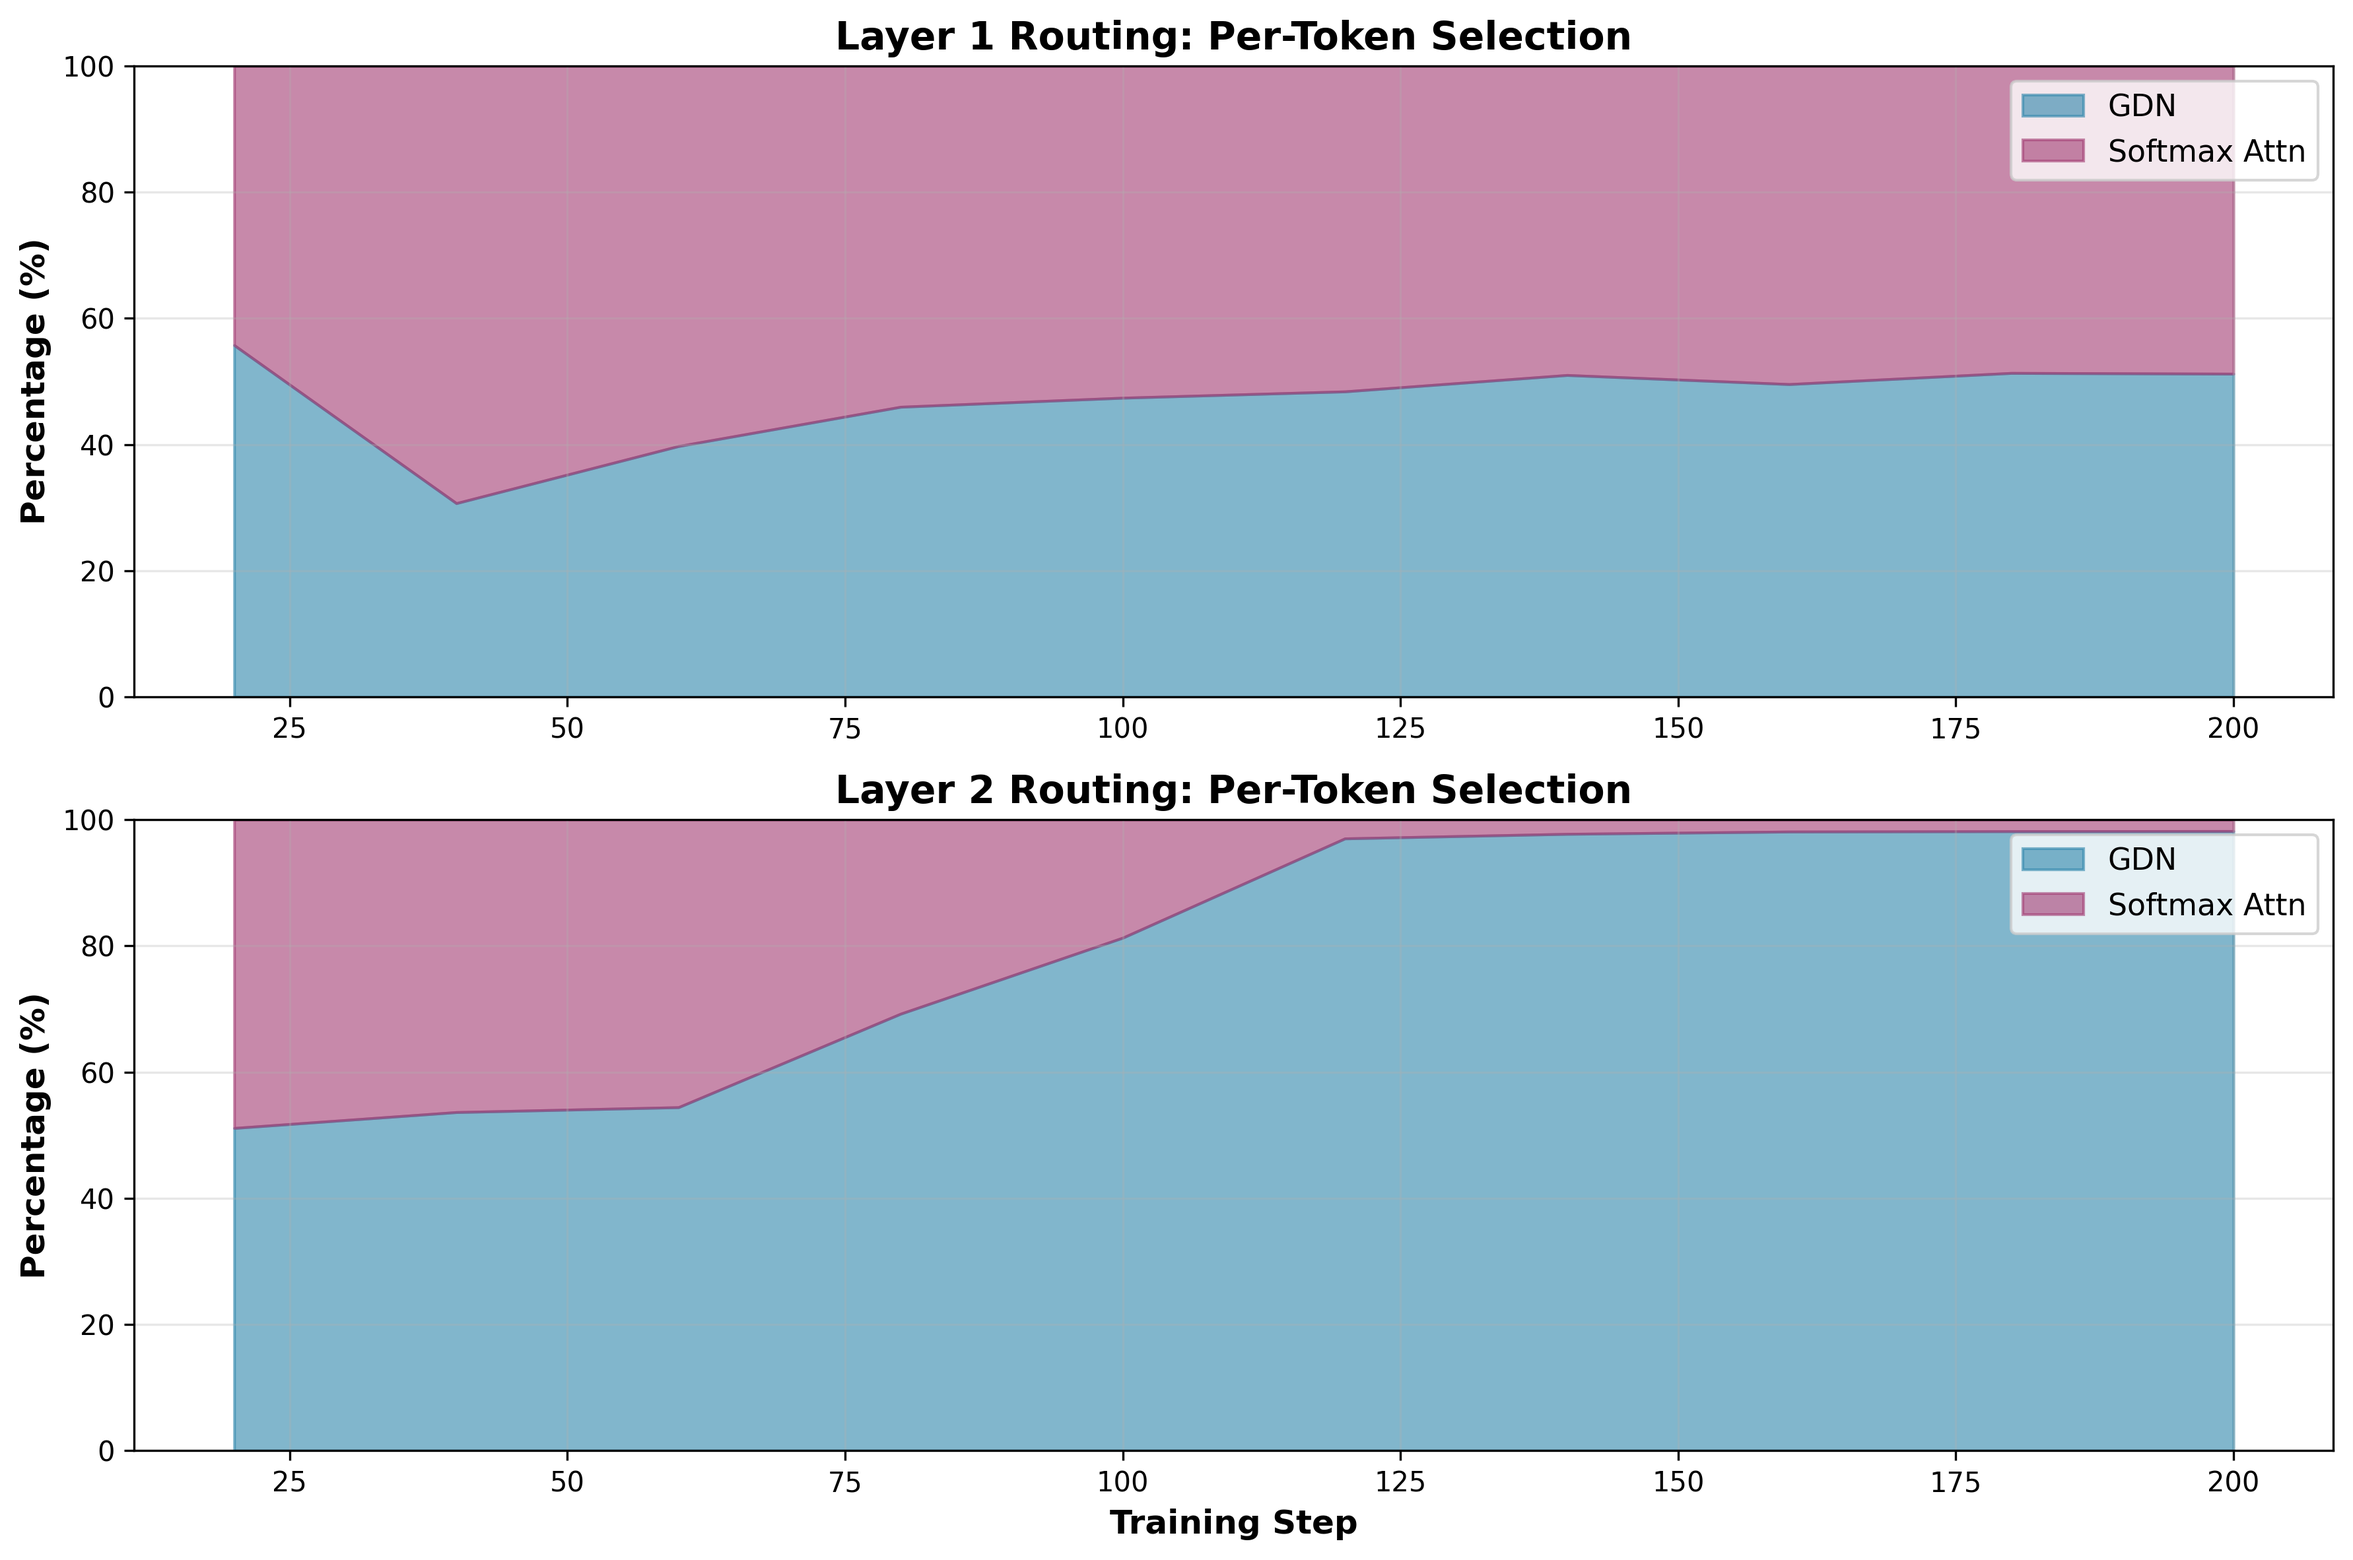
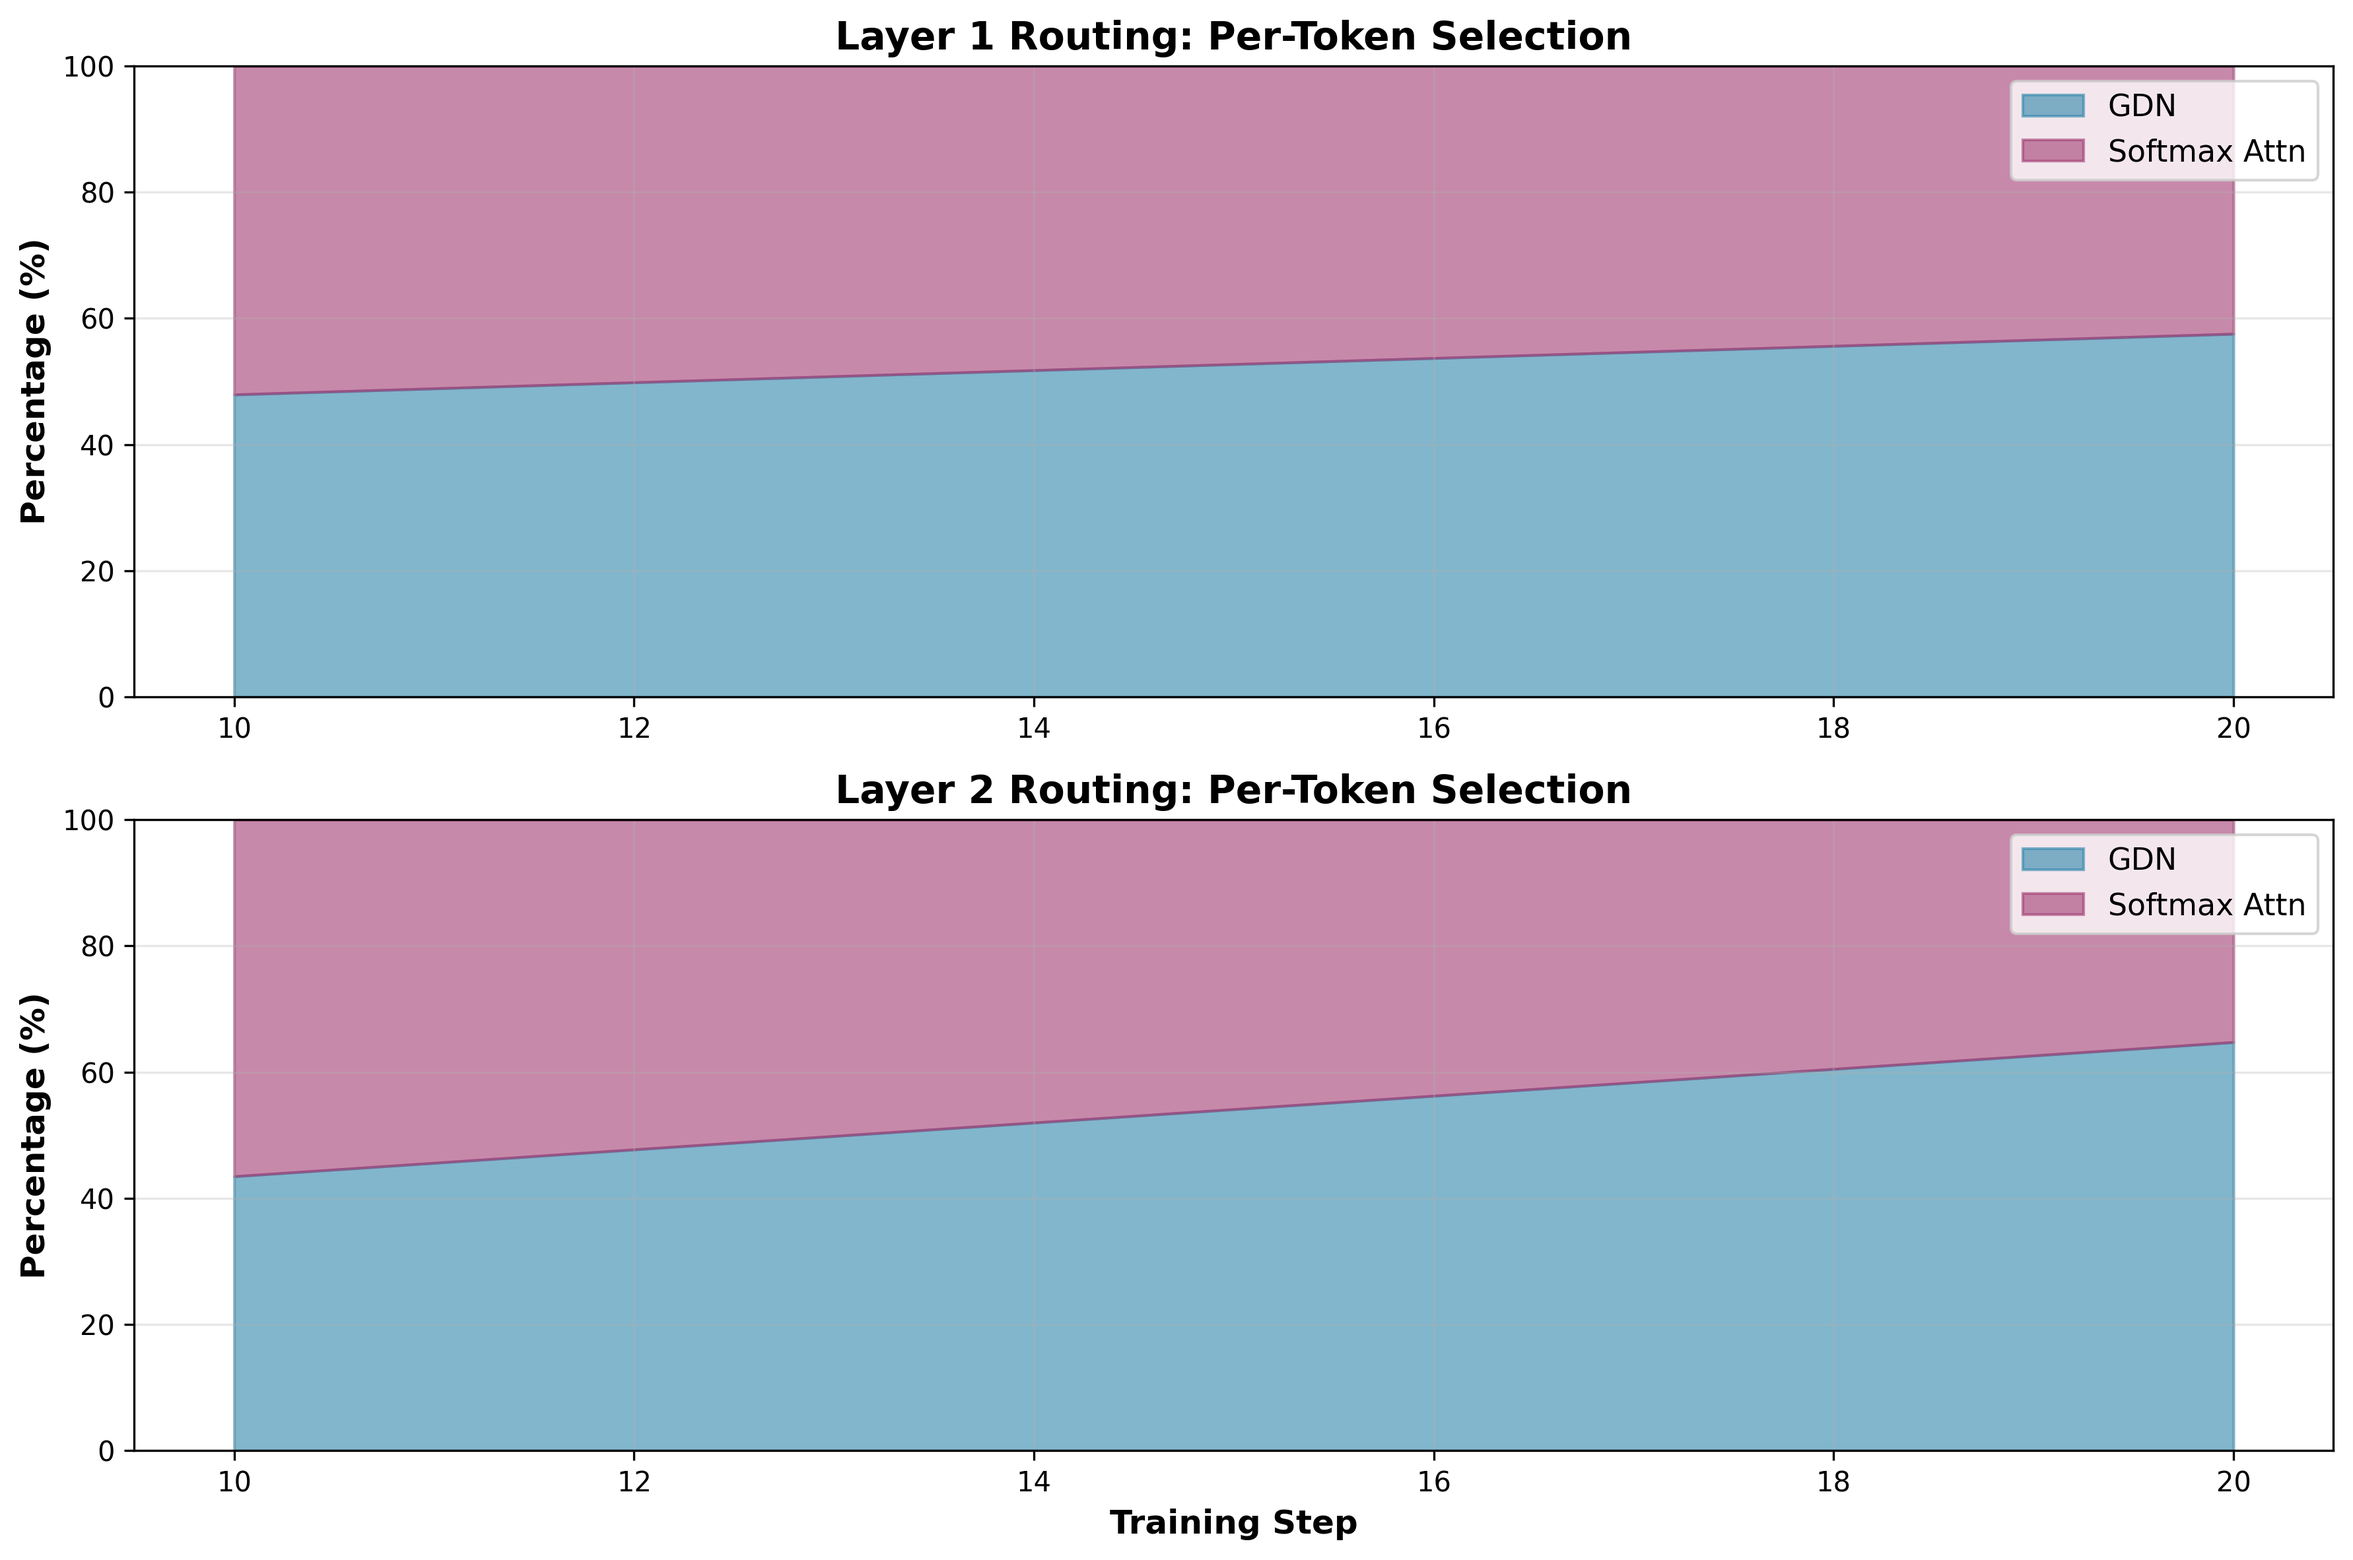
update

diff --git a/experiments/config.py b/experiments/config.py
@@ -137,8 +137,8 @@ def get_baseline_config():
         # Training
         max_seq_len=1024,
         batch_size=16,
-        max_steps=200,
-        warmup_steps=20,
+        max_steps=20,
+        warmup_steps=5,
         learning_rate=1e-3,  # GDN prefers 1e-3
         gradient_clip=1.0,
         
@@ -147,9 +147,9 @@ def get_baseline_config():
         max_tokens=70_000_000,
         
         # Evaluation
-        eval_interval=20,
+        eval_interval=10,
         eval_batches=10,
-        log_interval=10,
+        log_interval=5,
         
         # Checkpointing
         checkpoint_dir="checkpoints_baseline",
@@ -193,8 +193,8 @@ def get_dynamic_config():
         # Training
         max_seq_len=1024,
         batch_size=16,
-        max_steps=200,
-        warmup_steps=20,
+        max_steps=20,
+        warmup_steps=5,
         learning_rate=2e-3,  # Hybrids with attention prefer higher LR (from exp7)
         gradient_clip=1.0,
         
@@ -203,9 +203,9 @@ def get_dynamic_config():
         max_tokens=70_000_000,
         
         # Evaluation
-        eval_interval=20,
+        eval_interval=10,
         eval_batches=10,
-        log_interval=10,
+        log_interval=5,
         log_routing_stats=True,
         
         # Checkpointing
